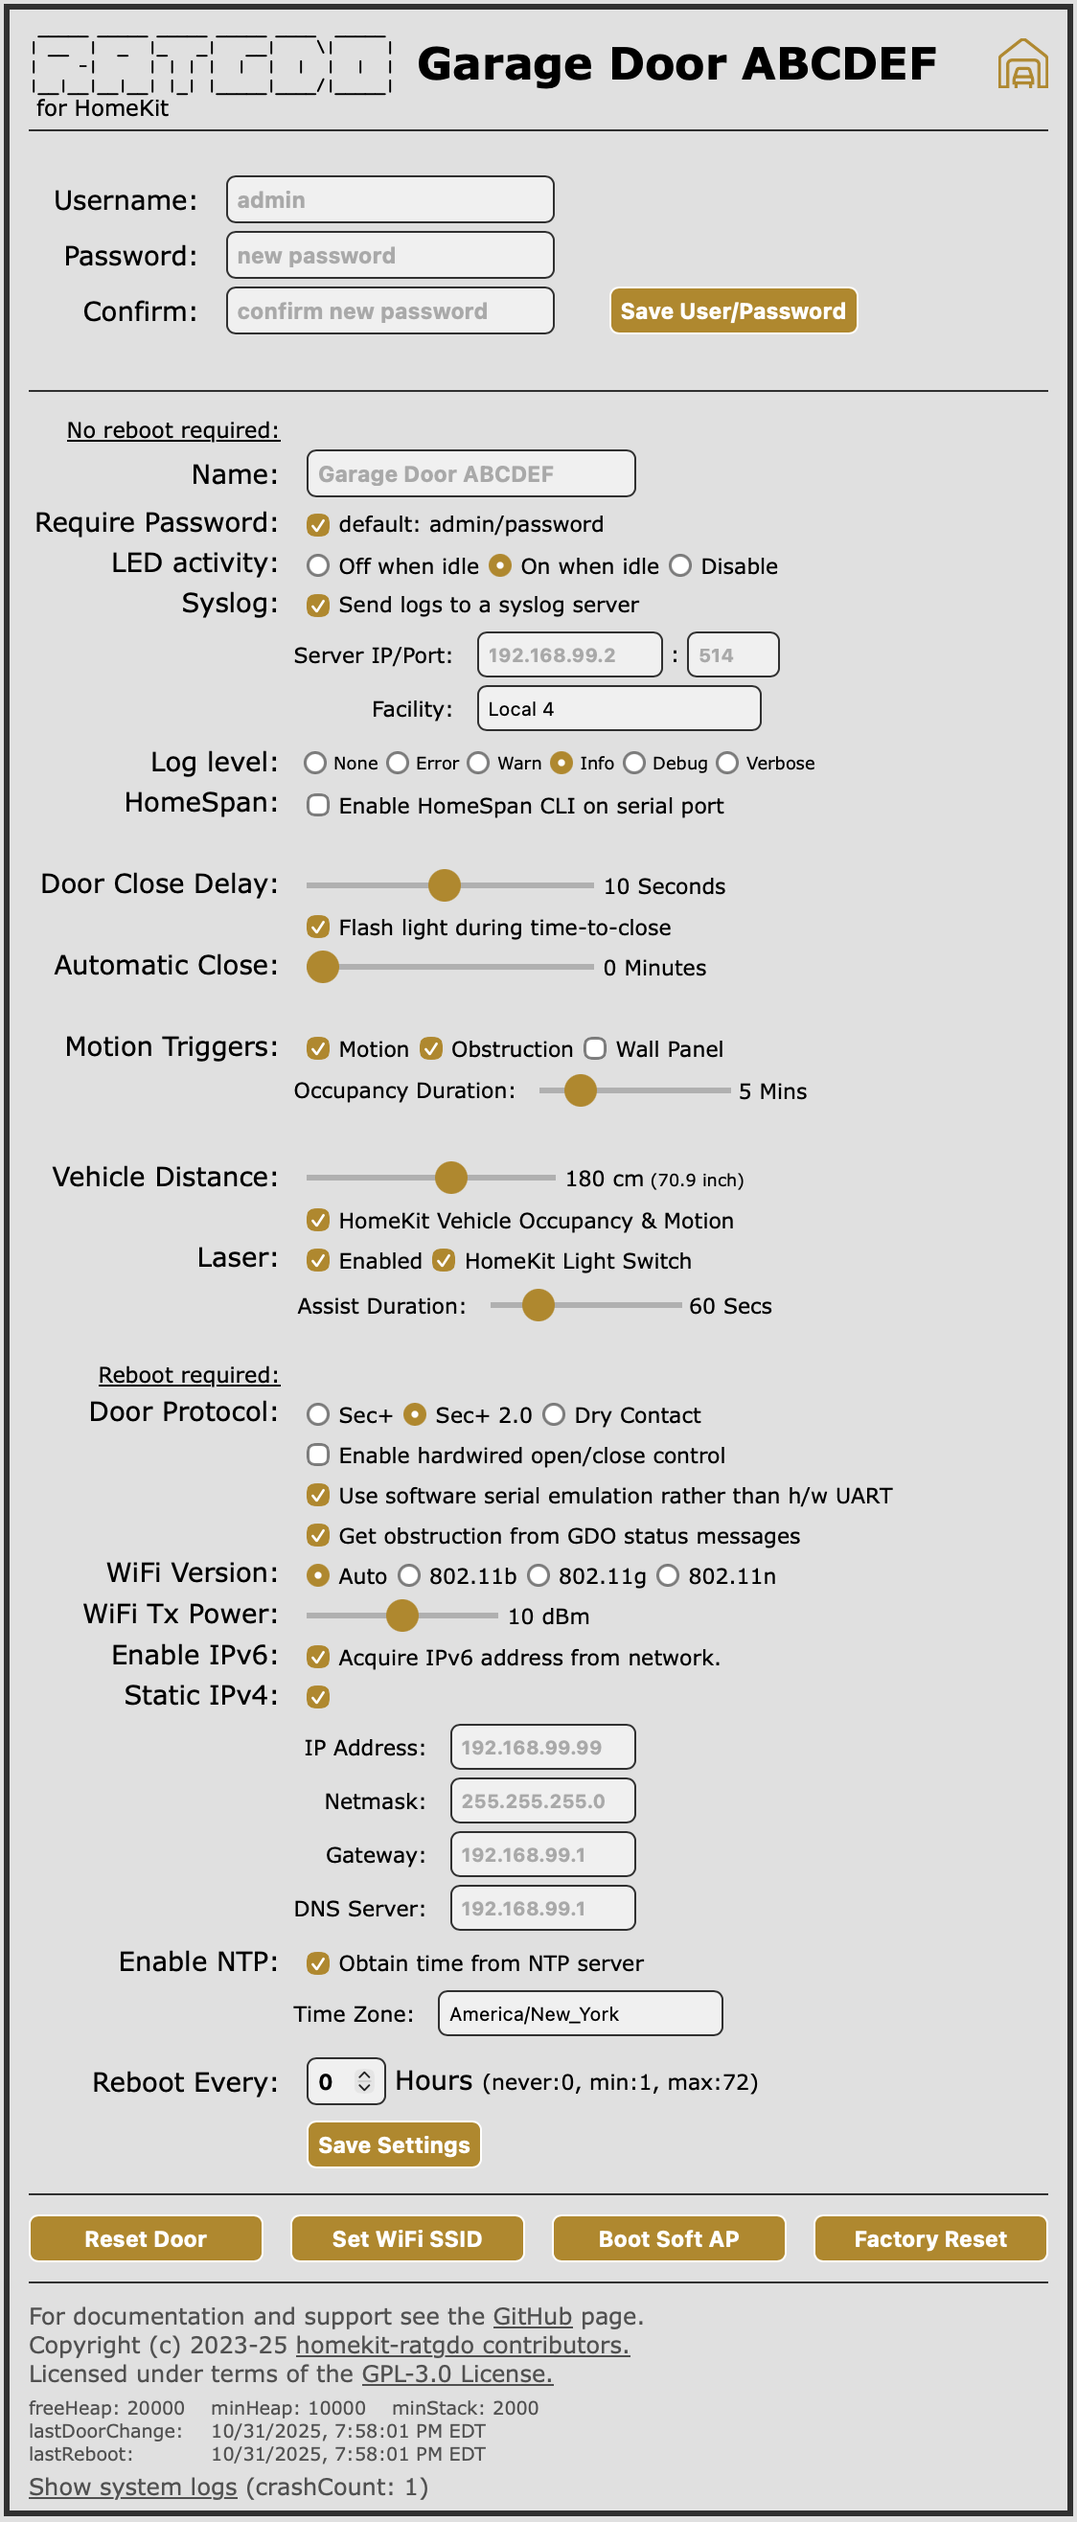
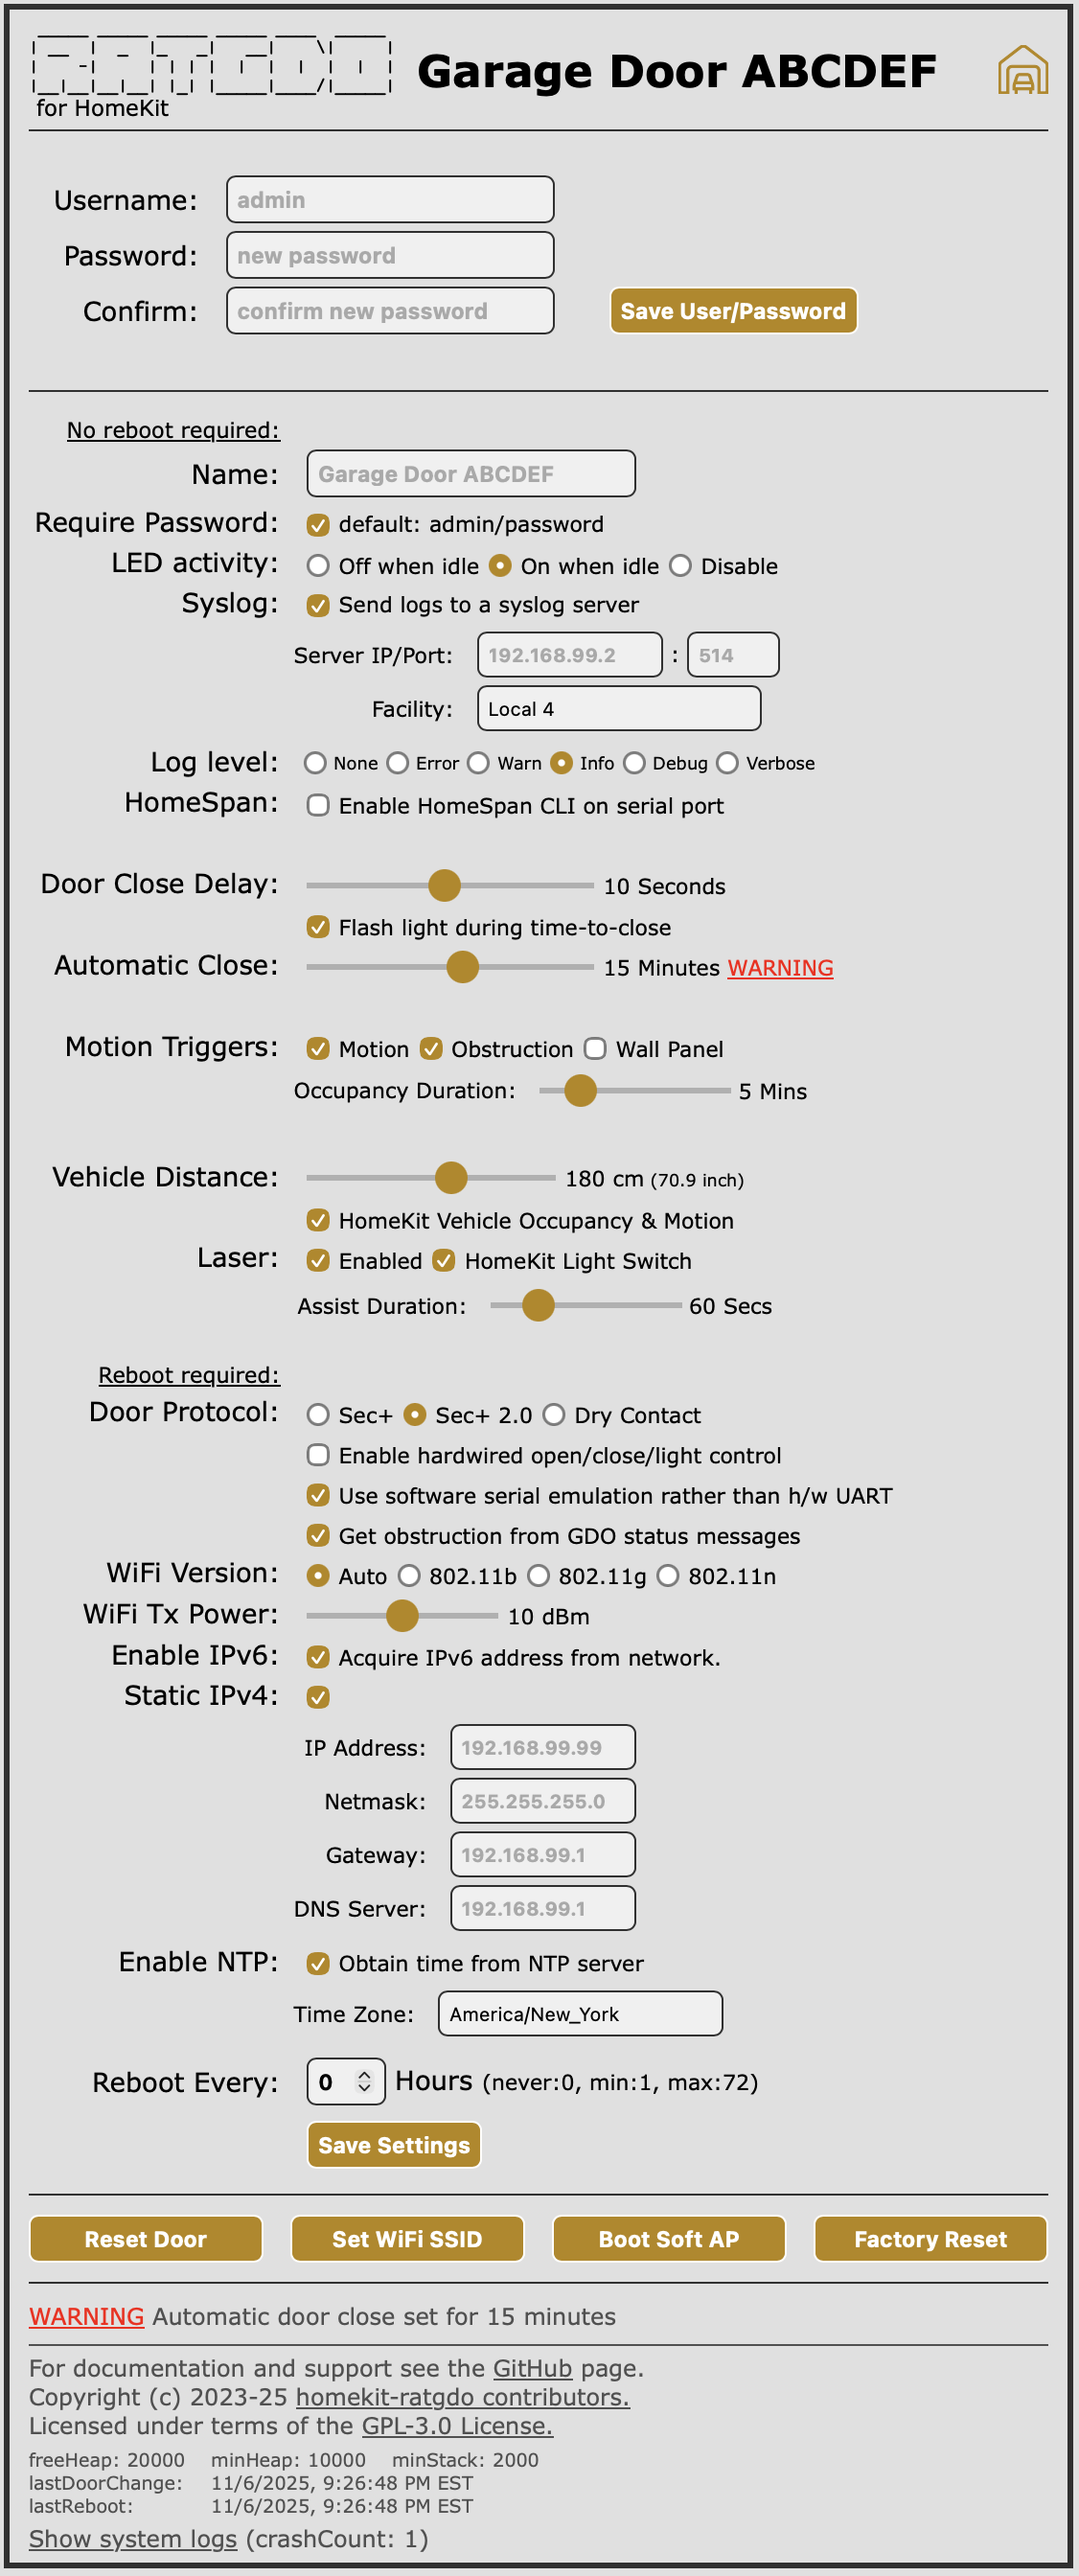
Update version number, CHANGELOG.md and README.md

diff --git a/CHANGELOG.md b/CHANGELOG.md
@@ -4,6 +4,24 @@
 
 All notable changes to `homekit-ratgdo32` will be documented in this file. This project tries to adhere to [Semantic Versioning](http://semver.org/).
 
+## v3.4.1 (2025-11-??)
+
+### What's Changed
+
+* Bugfix: Vehicle departing motion sensor may not trigger correctly (ratgdo32-disco only) 
+* Feature: Add a warning and countdown timer to web page when Sec+2.0 doors have automatic door close (TTC) active
+* Other: Display "Off" instead of "0" when settings sliders are set to zero seconds/minutes
+* Other: Improved web page design for iPhone and iPad devices
+* Other: Attempt to recover from out-of-sync Sec+2.0 rolling code https://github.com/ratgdo/homekit-ratgdo/issues/315
+* Other: HomeSpan library updated to version 2.1.6 (ratgdo32 only)
+* Other: Various log message cleanup to make debugging easier and reduce log clutter at default Info level
+
+### Known Issues
+
+* Sec+ 1.0 doors with digital wall panel (e.g. 889LM) sometimes do not close after a time-to-close delay. Please watch your door to make sure it closes after TTC delay.
+* Sec+ 1.0 doors with "0x37" digital wall panel (e.g. 398LM) not working.  We now detect but will not support them.  Recommend replacing with 889LM panel.
+* When creating automations in Apple Home the garage door may show only lock/unlock and not open/close as triggers.  This is a bug in Apple Home. Workaround is to use the Eve App to create the automation, it will show both options.
+
 ## v3.4.0 (2025-11-01)
 
 ### What's Changed
@@ -16,12 +34,6 @@ All notable changes to `homekit-ratgdo32` will be documented in this file. This 
 * Other: Allow user to disable triggering motion from Sec+2.0 wall panel motion sensors
 * Other: Ratgdo-disco only, update vehicle presence algorithm for no vehicle present to match ESPhome
 * Other: Adjust some Info-level log messages to Debug- or Error-level... reduces log clutter at default Info level
-
-### Known Issues
-
-* Sec+ 1.0 doors with digital wall panel (e.g. 889LM) sometimes do not close after a time-to-close delay. Please watch your door to make sure it closes after TTC delay.
-* Sec+ 1.0 doors with "0x37" digital wall panel (e.g. 398LM) not working.  We now detect but will not support them.  Recommend replacing with 889LM panel.
-* When creating automations in Apple Home the garage door may show only lock/unlock and not open/close as triggers.  This is a bug in Apple Home. Workaround is to use the Eve App to create the automation, it will show both options.
 
 ## v3.3.9 (2025-10-24)
 

diff --git a/README.md b/README.md
@@ -117,6 +117,13 @@ For ratgdo32-disco boards, vehicle status is shown as _Away_, _Parked_, _Arrivin
 > [!NOTE]
 > It is important that the distance sensor does not point at the glass windshield of your vehicle as this will give unreliable results.
 
+### Automatic Close Warning
+
+If you have a Security+ 2.0 door with an automatic time-to-close set, then a warning is displayed here showing the time in minutes after which the door will automatically close.  If the door is already open, then this section will display a countdown with the approximate time remaining before the door will close. See [Automatic Close](#automatic-close) section below.
+
+> [!NOTE]
+> This built-in automatic close feature is different from the [Door Close Delay](#door-close-delay) in that, if set, it is _always_ active and will close the door after the set delay without any user action.  A door close delay, however, is triggered only on a user requesting the door to close from the web page or an app, and is typically of much shorter duration.
+
 ### Information section
 
 The final section provides useful links to documentation and legal/license information. At the very bottom of the page is diagnostic information, see [Troubleshooting](#troubleshooting) section below.
